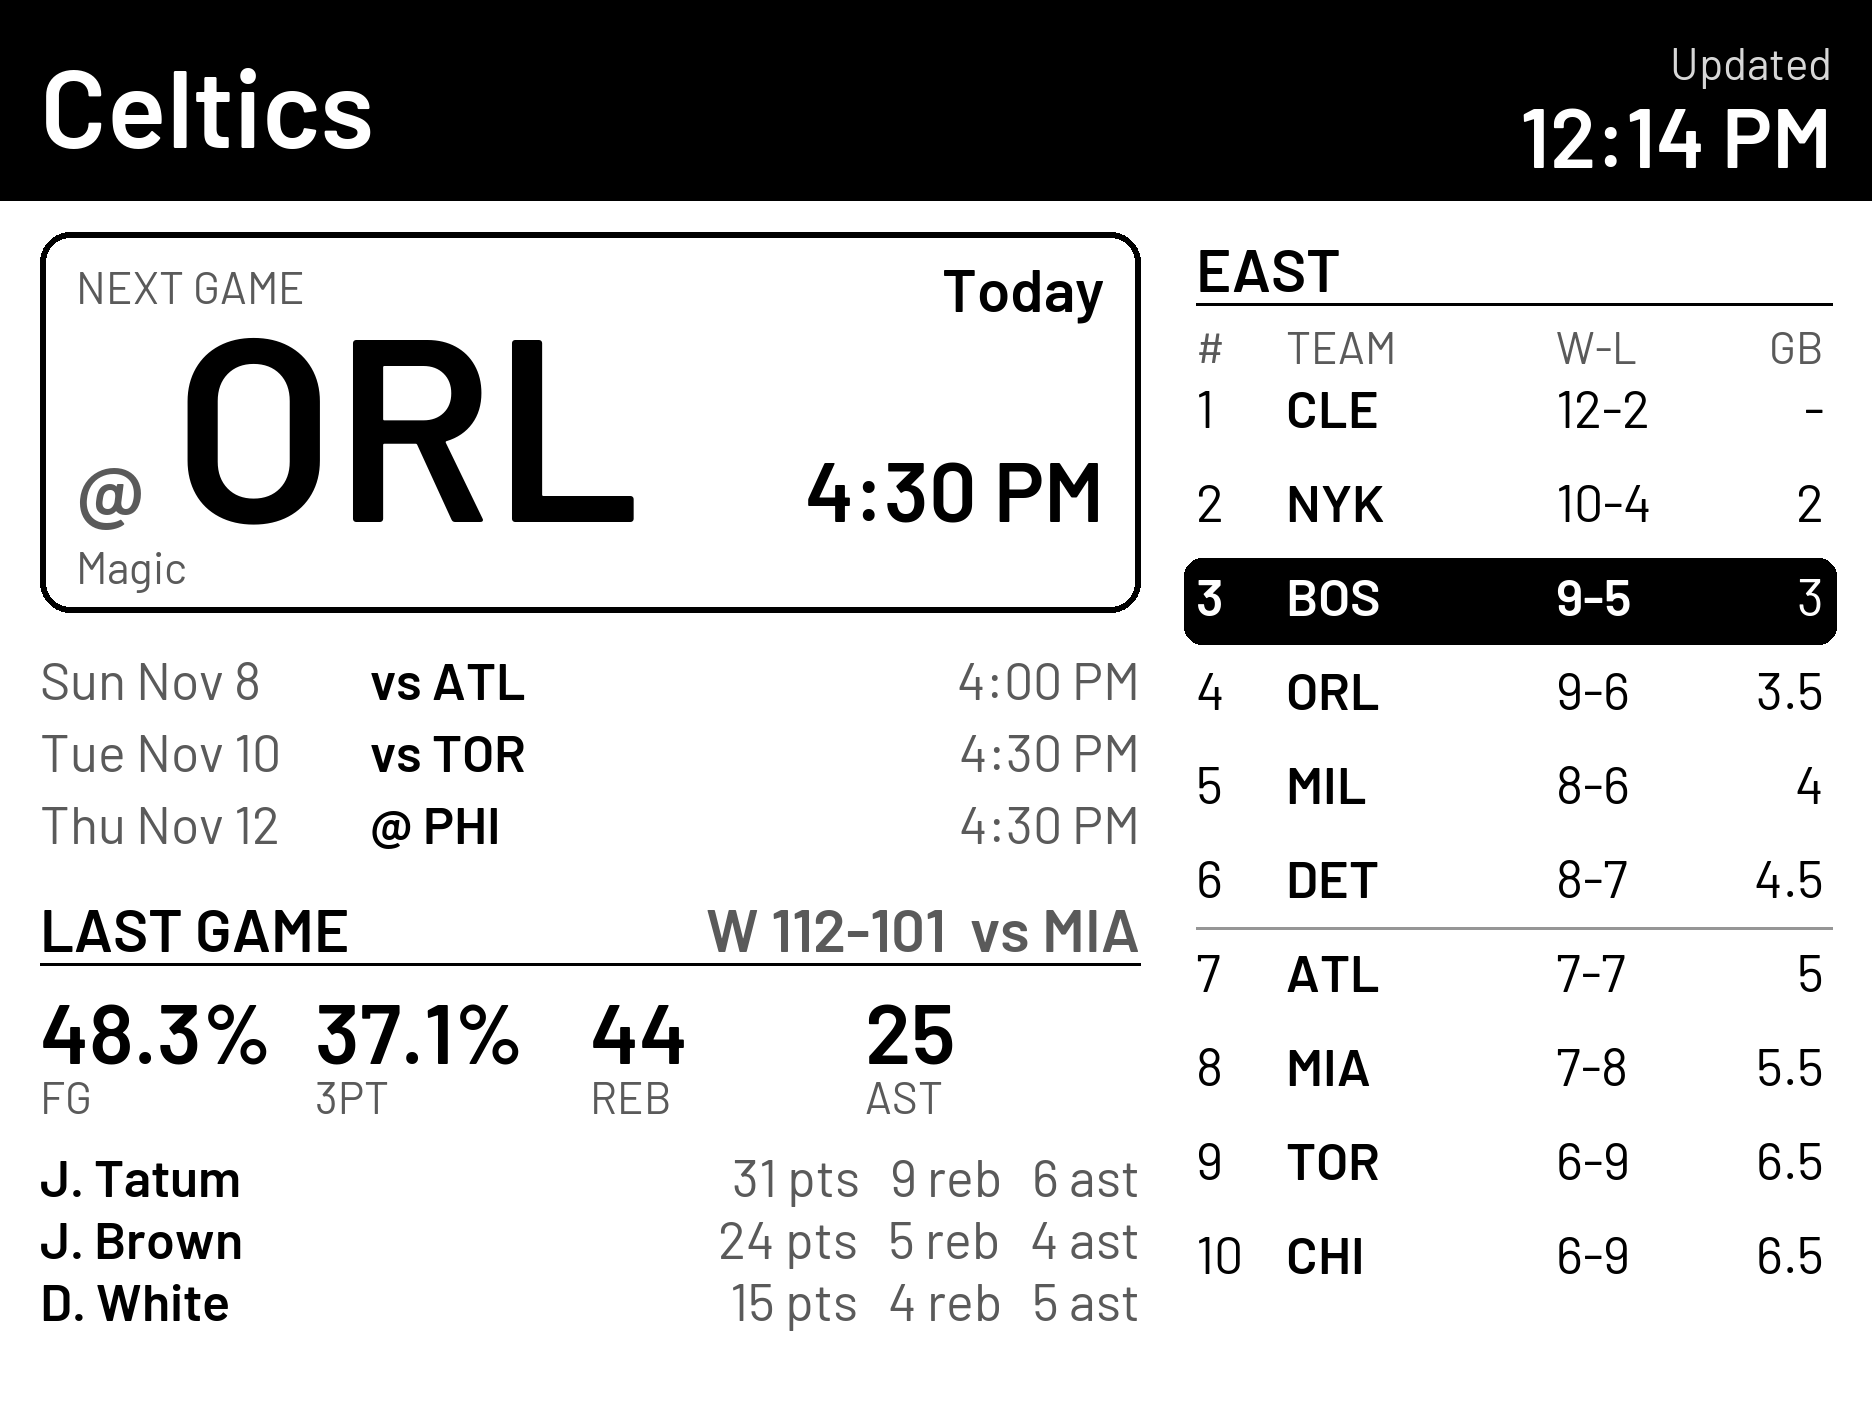
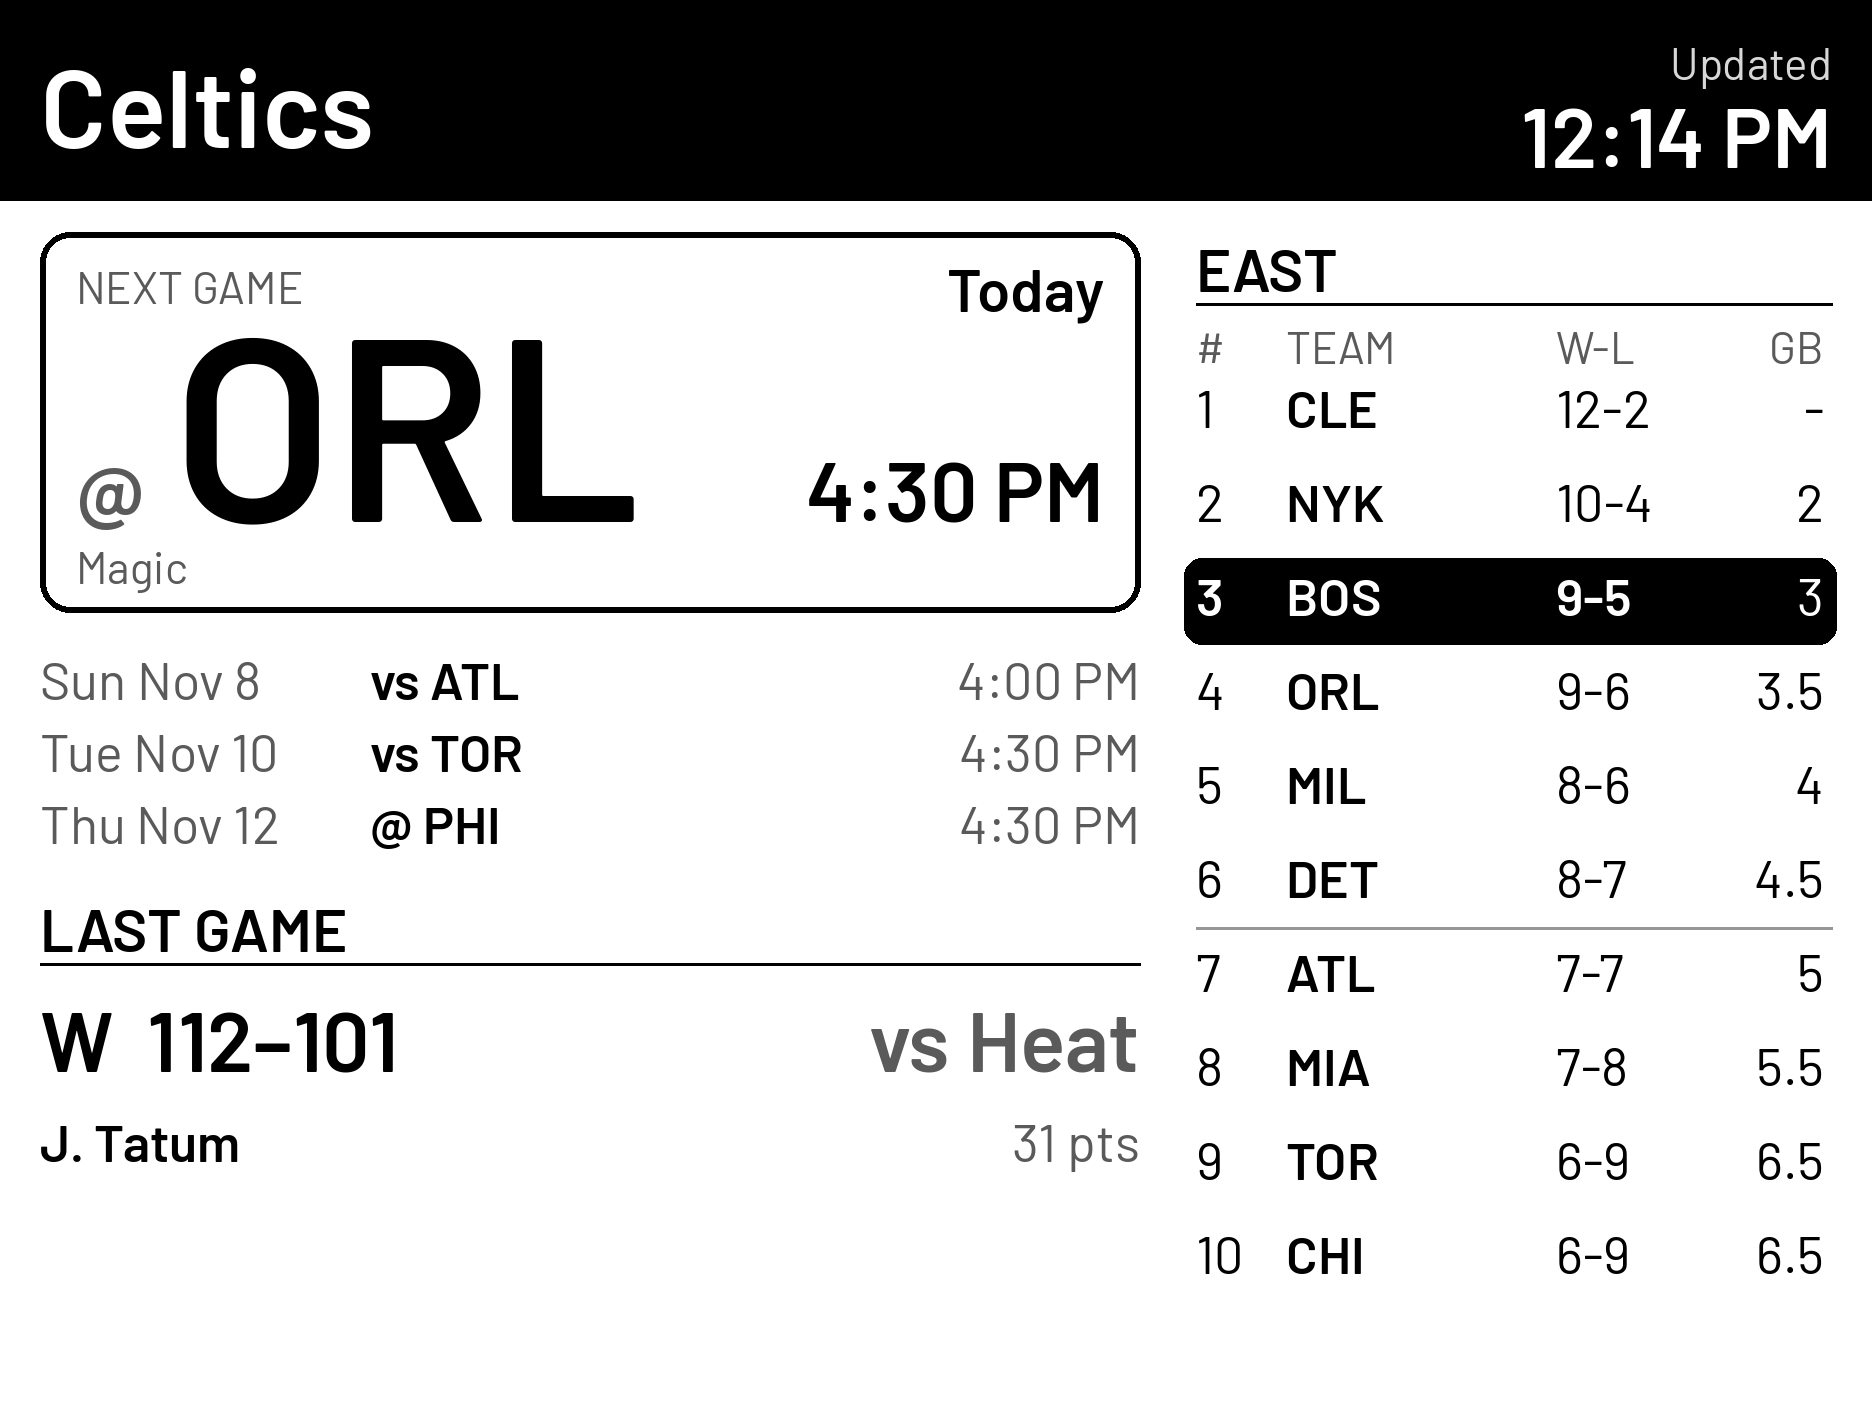
Rotate only the team page by default; refresh the README preview (#3)
- [rotation] pages now defaults to ["team"]; the scores page is opt-in
  (add "scores" to pages in config.toml).
- docs/celtics-preview.png was still the pre-#4 render with the full box score;
  regenerated from the current page.

Claude-Session: https://claude.ai/code/session_01E7caXxS1L3MW7NasN8PKb8

diff --git a/tests/test_rotation.py b/tests/test_rotation.py
@@ -137,11 +137,11 @@ def test_settings_come_from_config(monkeypatch, tmp_path):
     assert (r.bus_s, r.live_bus_s, r.pages[0].show_s) == (90, 45, 12)
 
 
-def test_defaults_rotate_team_and_scores():
+def test_default_rotation_is_the_team_page_only():
     r = rot.from_config()
-    assert [p.name for p in r.pages] == ["team", "scores"]
+    assert [p.name for p in r.pages] == ["team"]
     assert (r.bus_s, r.live_bus_s) == (120, 45)
-    assert [p.show_s for p in r.pages] == [15, 15]
+    assert [p.show_s for p in r.pages] == [15]
 
 
 def test_scores_page_uses_cache_when_offline(monkeypatch, tmp_path):

diff --git a/app/rotation.py b/app/rotation.py
@@ -165,5 +165,5 @@ def from_config(clock=time.monotonic) -> Rotation:
         "SCORES": lambda: scores_page(names("leagues", ("NFL", "NHL")), names("favorites", ()),
                                       show_s=num("scores_secs", 15)),
     }
-    pages = [makers[n]() for n in names("pages", ("team", "scores")) if n in makers]
+    pages = [makers[n]() for n in names("pages", ("team",)) if n in makers]
     return Rotation(pages, bus_s=num("bus_secs", 120), live_bus_s=num("live_bus_secs", 45), clock=clock)

diff --git a/docs/INTEGRATION.md b/docs/INTEGRATION.md
@@ -40,7 +40,8 @@ Inspect your driver's real `draw_full`/`draw_partial` signatures first; never as
 
 The bus screen lives in the repo (`app/main.py`, copied from the Pi) and rotates sports pages in using
 `app/rotation.py`. The bus screen is home: every 2 minutes one sports page shows for 15 s, then the bus screen is
-fully redrawn. Pages alternate (team page, then Scores). While a game is live the bus stretch drops to 45 s.
+fully redrawn. By default only the team page rotates in; add "scores" to `[rotation] pages` for the scoreboard
+too (pages then alternate). While a game is live the bus stretch drops to 45 s.
 Pages refresh in a background thread (every 2 min, every 30 s during a live game); a page with no games or no data
 yet is skipped, so the bus screen is never interrupted by an empty page.
 
